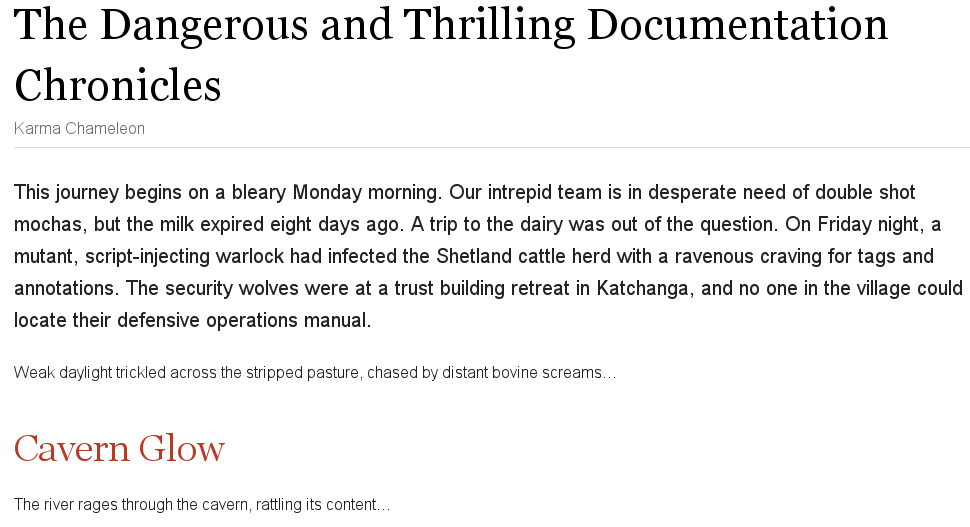
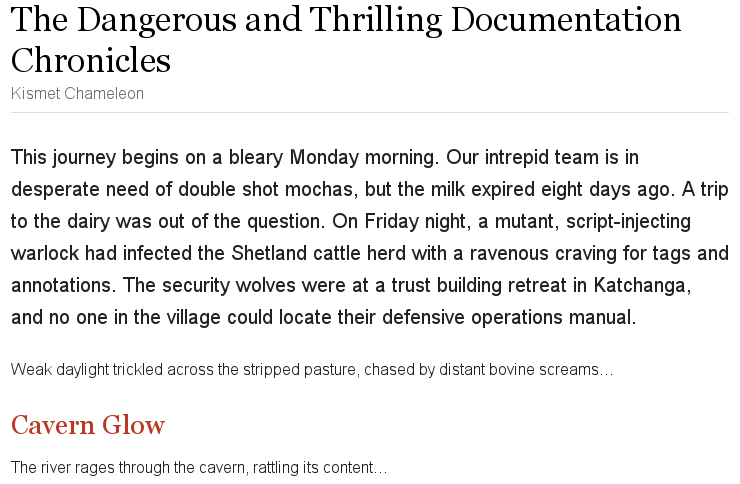
Published gh-pages to GitHub pages.

diff --git a/docs/examples/preamble/index.html b/docs/examples/preamble/index.html
@@ -450,22 +450,23 @@ span.line-numbers { border-right: 1px solid #E5E5E5; color: #999; display: inlin
 
 </style>
 </head>
-<body class="article toc2 toc-left">
+<body class="article">
 <div id="header">
 <h1>The Dangerous and Thrilling Documentation Chronicles</h1>
 <span id="author" class="author">Kismet Chameleon</span><br>
-<div id="toc" class="toc2">
-<div id="toctitle">Table of Adventures &lt;2&gt;</div>
-<ul class="sectlevel1">
-<li><a href="#cavern-glow">Cavern Glow</a></li>
-</ul>
-</div>
 </div>
 <div id="content">
 <div id="preamble">
 <div class="sectionbody">
 <div class="paragraph">
-<p>This journey begins on a bleary&#8230;</p>
+<p>This journey begins on a bleary Monday morning.
+Our intrepid team is in desperate need of double shot mochas, but the milk expired eight days ago.
+A trip to the dairy was out of the question.
+On Friday night, a mutant, script-injecting warlock had infected the Shetland cattle herd with a ravenous craving for tags and annotations.
+The security wolves were at a trust building retreat in Katchanga, and no one in the village could locate their defensive operations manual.</p>
+</div>
+<div class="paragraph">
+<p>Weak daylight trickled across the stripped pasture, chased by distant bovine screams&#8230;</p>
 </div>
 </div>
 </div>

diff --git a/docs/user-manual/index.html b/docs/user-manual/index.html
@@ -3928,7 +3928,7 @@ A preamble is optional.</p>
 <div class="title">Preamble</div>
 <div class="content">
 <pre class="nowrap">= The Dangerous and Thrilling Documentation Chronicles
-Karma Chameleon
+Kismet Chameleon
 
 This journey begins on a bleary Monday morning.
 Our intrepid team is in desperate need of double shot mochas, but the milk expired eight days ago.
@@ -3946,11 +3946,15 @@ The river rages through the cavern, rattling its content...</pre>
 <div class="paragraph">
 <p>When using the default Asciidoctor stylesheet, the <a href="#lead-paragraph"><code>lead</code> attribute</a> is applied to the first paragraph of the preamble.</p>
 </div>
-<div class="imageblock" style="text-align: center">
+<div class="exampleblock">
+<div class="title">Result: Rendered preamble</div>
+<div class="content">
+<div class="imageblock">
 <div class="content">
 <img src="/images/preamble.png" alt="Preamble with lead attribute applied">
 </div>
-<div class="title">Result: Rendered preamble</div>
+</div>
+</div>
 </div>
 </div>
 </div>
@@ -16367,7 +16371,7 @@ Section pending
 </div>
 <div id="footer">
 <div id="footer-text">
-Last updated 2013-10-04 02:25:56 UTC
+Last updated 2013-10-04 15:26:07 UTC
 </div>
 </div>
 </body>

diff --git a/docs/asciidoc-asciidoctor-diffs-table/index.html b/docs/asciidoc-asciidoctor-diffs-table/index.html
@@ -2528,7 +2528,7 @@ span.line-numbers { border-right: 1px solid #E5E5E5; color: #999; display: inlin
 </div>
 <div id="footer">
 <div id="footer-text">
-Last updated 2013-10-04 02:25:56 UTC
+Last updated 2013-10-04 15:26:07 UTC
 </div>
 </div>
 </body>

diff --git a/docs/examples/toc-level/index.html b/docs/examples/toc-level/index.html
@@ -511,7 +511,7 @@ span.line-numbers { border-right: 1px solid #E5E5E5; color: #999; display: inlin
 </div>
 <div id="footer">
 <div id="footer-text">
-Last updated 2013-10-04 02:25:56 UTC
+Last updated 2013-10-04 15:26:07 UTC
 </div>
 </div>
 </body>

diff --git a/docs/examples/toc-macro/index.html b/docs/examples/toc-macro/index.html
@@ -477,7 +477,7 @@ span.line-numbers { border-right: 1px solid #E5E5E5; color: #999; display: inlin
 </div>
 <div id="footer">
 <div id="footer-text">
-Last updated 2013-10-04 02:25:56 UTC
+Last updated 2013-10-04 15:26:07 UTC
 </div>
 </div>
 </body>

diff --git a/docs/examples/toc-right/index.html b/docs/examples/toc-right/index.html
@@ -480,7 +480,7 @@ span.line-numbers { border-right: 1px solid #E5E5E5; color: #999; display: inlin
 </div>
 <div id="footer">
 <div id="footer-text">
-Last updated 2013-10-04 02:25:56 UTC
+Last updated 2013-10-04 15:26:07 UTC
 </div>
 </div>
 </body>

diff --git a/docs/examples/toc/index.html b/docs/examples/toc/index.html
@@ -480,7 +480,7 @@ span.line-numbers { border-right: 1px solid #E5E5E5; color: #999; display: inlin
 </div>
 <div id="footer">
 <div id="footer-text">
-Last updated 2013-10-04 02:25:56 UTC
+Last updated 2013-10-04 15:26:07 UTC
 </div>
 </div>
 </body>

diff --git a/docs/examples/toc2/index.html b/docs/examples/toc2/index.html
@@ -480,7 +480,7 @@ span.line-numbers { border-right: 1px solid #E5E5E5; color: #999; display: inlin
 </div>
 <div id="footer">
 <div id="footer-text">
-Last updated 2013-10-04 02:25:56 UTC
+Last updated 2013-10-04 15:26:07 UTC
 </div>
 </div>
 </body>
